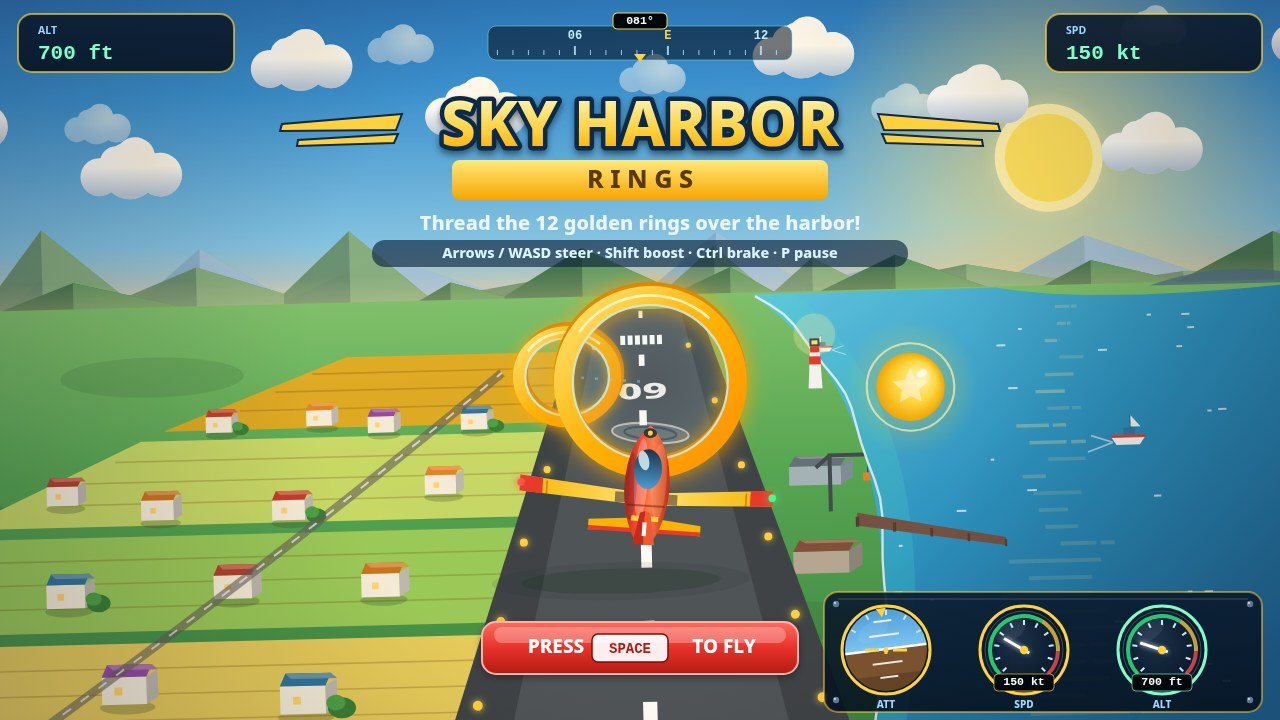
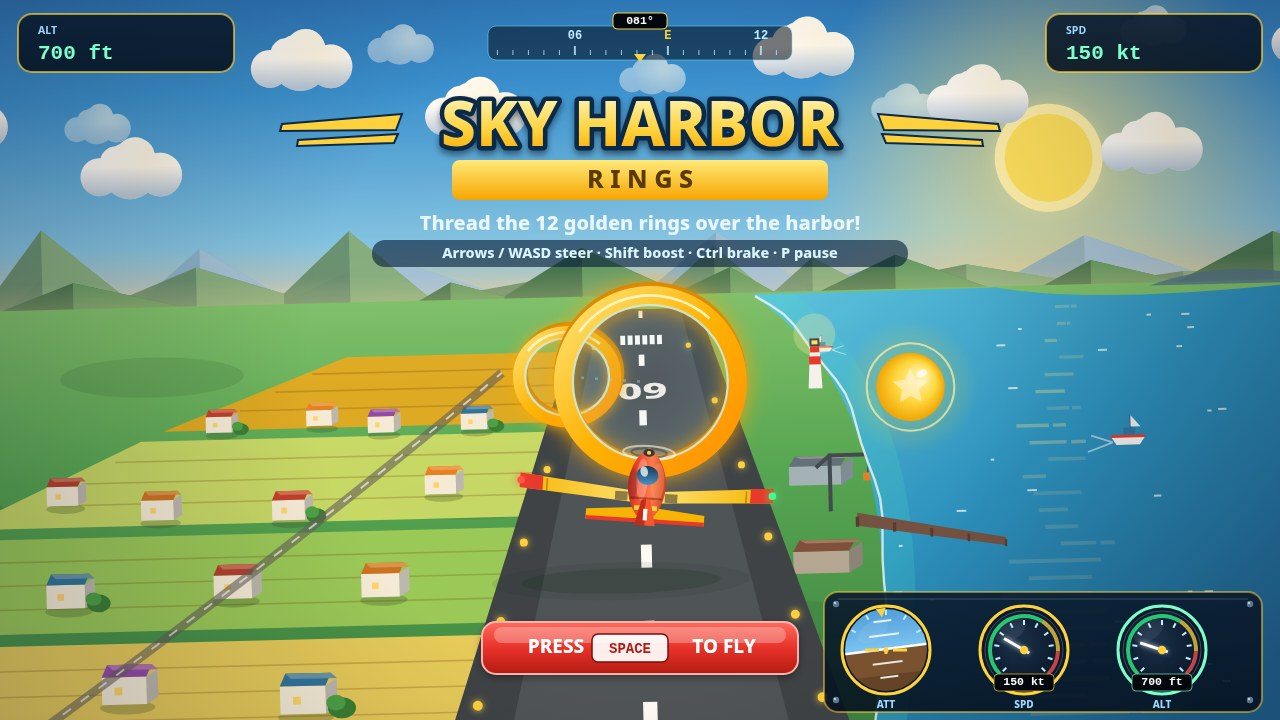
Plane: true rear chase view — foreshortened fuselage, dominant wing, cruise attitude
Redraw planeRear so the plane reads as flying away from the camera
instead of a top-down sprite standing on its tail: fuselage length
109 -> 66 units, prop disc 37 -> 25 wide at the far nose, canopy
shrunk to a small bump, main wing shifted low toward the camera end
and now the dominant shape, tailplane/fin anchoring the bottom.
Wingtip anchor for vortex trails updated to the new tip chord.
Screenshots regenerated.

Changed region(s): [[0.4062, 0.5806, 0.625, 0.7639]]

diff --git a/game/src/render.js b/game/src/render.js
@@ -103,121 +103,133 @@ export function createRenderer(canvas) {
     ctx.closePath();
   }
 
-  // ---------- the plane: rear chase view (seen from behind-above) ----------
-  // Forward is up-screen (-y): prop disc at the far nose, fuselage tapering
-  // away, canopy back, main wing as a dihedral rear section, tailplane and
-  // the vertical fin facing the camera at the near end.
+  // ---------- the plane: rear chase view ----------
+  // The camera sits close behind and slightly above, so the airframe
+  // is heavily foreshortened: the fuselage is a short taper receding
+  // to a small prop disc at the far end, the wide main wing dominates
+  // the middle, and the tailplane and fin — nearest the camera —
+  // anchor the bottom of the sprite. Forward is up-screen (-y) but
+  // the nose sits level, at cruise attitude: the plane flies away
+  // from the camera, it does not stand on its tail.
   function planeRear(x, y, bank, scale, pitch = 0) {
     ctx.save();
     ctx.translate(x + bank * 9, y);
     ctx.rotate(bank * 0.36);
     ctx.scale(scale, scale);
-    // pitch foreshortening: nose-up squashes the airframe vertically and
-    // lifts the prop disc, nose-down stretches it and drops the disc
+    // pitch foreshortening: nose-up squashes the (already short)
+    // airframe a touch more and lifts the prop disc, nose-down
+    // stretches it and drops the disc
     ctx.scale(1, 1 - pitch * 0.13);
-    const noseY = -50 - pitch * 9;
+    const noseY = -31 - pitch * 5;
 
-    // propeller: translucent blur disc at the far nose, wider than fuselage
+    // propeller: small translucent blur disc at the far nose — the
+    // far end of a foreshortened airframe, so barely wider than the
+    // fuselage and squashed nearly flat
     ctx.fillStyle = 'rgba(228,246,255,0.15)';
-    ctx.beginPath(); ctx.ellipse(0, noseY, 37, 9.5, 0, 0, 7); ctx.fill();
+    ctx.beginPath(); ctx.ellipse(0, noseY, 25, 6.5, 0, 0, 7); ctx.fill();
     ctx.strokeStyle = 'rgba(255,255,255,0.55)';
     ctx.lineWidth = 2;
-    ctx.beginPath(); ctx.ellipse(0, noseY, 37, 9.5, 0, 0, 7); ctx.stroke();
+    ctx.beginPath(); ctx.ellipse(0, noseY, 25, 6.5, 0, 0, 7); ctx.stroke();
     ctx.strokeStyle = 'rgba(25,45,75,0.45)';
-    ctx.beginPath(); ctx.ellipse(0, noseY, 25, 6, 0, 0, 7); ctx.stroke();
+    ctx.beginPath(); ctx.ellipse(0, noseY, 17, 4.2, 0, 0, 7); ctx.stroke();
 
-    // main wing: rear section with dihedral (tips rise), gold, red tips
+    // main wing: the dominant shape — a wide rear section with
+    // dihedral (tips rise), gold with red tips, sitting low on the
+    // fuselage toward the camera end
     const wg = ctx.createLinearGradient(-122, 0, 122, 0);
     wg.addColorStop(0, '#f7b500'); wg.addColorStop(0.5, '#ffe97a'); wg.addColorStop(1, '#f7b500');
     ctx.fillStyle = wg;
     ctx.beginPath();
-    ctx.moveTo(-122, -2); ctx.lineTo(-14, 7); ctx.lineTo(14, 7); ctx.lineTo(122, -2);
-    ctx.lineTo(122, 13); ctx.lineTo(14, 19); ctx.lineTo(-14, 19); ctx.lineTo(-122, 13);
+    ctx.moveTo(-122, -4); ctx.lineTo(-14, 6); ctx.lineTo(14, 6); ctx.lineTo(122, -4);
+    ctx.lineTo(122, 10); ctx.lineTo(14, 17); ctx.lineTo(-14, 17); ctx.lineTo(-122, 10);
     ctx.closePath(); ctx.fill();
     ctx.fillStyle = '#e8322a';
-    ctx.beginPath(); ctx.moveTo(-122, -2); ctx.lineTo(-100, -0.5); ctx.lineTo(-100, 14.5); ctx.lineTo(-122, 13); ctx.closePath(); ctx.fill();
-    ctx.beginPath(); ctx.moveTo(122, -2); ctx.lineTo(100, -0.5); ctx.lineTo(100, 14.5); ctx.lineTo(122, 13); ctx.closePath(); ctx.fill();
+    ctx.beginPath(); ctx.moveTo(-122, -4); ctx.lineTo(-100, -2.2); ctx.lineTo(-100, 11.3); ctx.lineTo(-122, 10); ctx.closePath(); ctx.fill();
+    ctx.beginPath(); ctx.moveTo(122, -4); ctx.lineTo(100, -2.2); ctx.lineTo(100, 11.3); ctx.lineTo(122, 10); ctx.closePath(); ctx.fill();
     // aileron hinge lines + dark walkway strips at the root
     ctx.strokeStyle = 'rgba(120,70,0,0.45)';
     ctx.lineWidth = 1.6;
-    ctx.beginPath(); ctx.moveTo(-96, 2); ctx.lineTo(-96, 15); ctx.moveTo(96, 2); ctx.lineTo(96, 15); ctx.stroke();
+    ctx.beginPath(); ctx.moveTo(-96, 0); ctx.lineTo(-96, 11.5); ctx.moveTo(96, 0); ctx.lineTo(96, 11.5); ctx.stroke();
     ctx.fillStyle = 'rgba(40,40,46,0.55)';
-    ctx.fillRect(-30, 8, 12, 10); ctx.fillRect(18, 8, 12, 10);
+    ctx.fillRect(-30, 7.5, 12, 8.5); ctx.fillRect(18, 7.5, 12, 8.5);
     // navigation lights on the wingtips
     ctx.save();
     ctx.shadowBlur = 9;
     ctx.shadowColor = '#ff3b30'; ctx.fillStyle = '#ff5147';
-    ctx.beginPath(); ctx.arc(-121, 5, 3.6, 0, 7); ctx.fill();
+    ctx.beginPath(); ctx.arc(-121, 3, 3.6, 0, 7); ctx.fill();
     ctx.shadowColor = '#2eff8a'; ctx.fillStyle = '#3dff8f';
-    ctx.beginPath(); ctx.arc(121, 5, 3.6, 0, 7); ctx.fill();
+    ctx.beginPath(); ctx.arc(121, 3, 3.6, 0, 7); ctx.fill();
     ctx.restore();
 
     // tailplane (horizontal stabiliser) at the near end
     ctx.fillStyle = '#f7b500';
     ctx.beginPath();
-    ctx.moveTo(-54, 36); ctx.lineTo(0, 31); ctx.lineTo(54, 36);
-    ctx.lineTo(54, 46); ctx.lineTo(0, 42); ctx.lineTo(-54, 46);
+    ctx.moveTo(-57, 26); ctx.lineTo(0, 21); ctx.lineTo(57, 26);
+    ctx.lineTo(57, 36); ctx.lineTo(0, 32); ctx.lineTo(-57, 36);
     ctx.closePath(); ctx.fill();
     ctx.fillStyle = '#e8322a';
-    ctx.fillRect(-54, 42, 108, 4);
+    ctx.fillRect(-57, 32.5, 114, 3.8);
 
-    // fuselage: bulges at the cabin, tapers to the nose (far) and tail (near)
+    // fuselage: short and strongly tapered — it bulges briefly at
+    // the cabin, then narrows fast toward the far nose and the near
+    // tail cone, so only a hint of its top shows from behind
     const fg = ctx.createLinearGradient(-24, 0, 24, 0);
     fg.addColorStop(0, '#a01810'); fg.addColorStop(0.32, '#f0442e');
     fg.addColorStop(0.58, '#ff7a4d'); fg.addColorStop(1, '#b31b12');
     ctx.fillStyle = fg;
     ctx.beginPath();
-    ctx.moveTo(0, -57);
-    ctx.quadraticCurveTo(15, -44, 20, -18);
-    ctx.quadraticCurveTo(24, 4, 19, 26);
-    ctx.quadraticCurveTo(15, 44, 9, 52);
-    ctx.lineTo(-9, 52);
-    ctx.quadraticCurveTo(-15, 44, -19, 26);
-    ctx.quadraticCurveTo(-24, 4, -20, -18);
-    ctx.quadraticCurveTo(-15, -44, 0, -57);
+    ctx.moveTo(0, -36);
+    ctx.quadraticCurveTo(13, -27, 17, -10);
+    ctx.quadraticCurveTo(20, 3, 16, 15);
+    ctx.quadraticCurveTo(12.5, 25, 8, 30);
+    ctx.lineTo(-8, 30);
+    ctx.quadraticCurveTo(-12.5, 25, -16, 15);
+    ctx.quadraticCurveTo(-20, 3, -17, -10);
+    ctx.quadraticCurveTo(-13, -27, 0, -36);
     ctx.closePath(); ctx.fill();
     // spine highlight + panel line + belly stripe
     ctx.fillStyle = 'rgba(255,255,255,0.28)';
-    ctx.beginPath(); ctx.ellipse(-6, -6, 6.5, 38, 0, 0, 7); ctx.fill();
+    ctx.beginPath(); ctx.ellipse(-5, -5, 5.5, 20, 0, 0, 7); ctx.fill();
     // sunlight from the upper right: warm sheen on the sun side of the
     // fuselage, cool rim shadow on the far side
     ctx.fillStyle = 'rgba(255,216,140,0.22)';
-    ctx.beginPath(); ctx.ellipse(11, -4, 7.5, 36, 0, 0, 7); ctx.fill();
+    ctx.beginPath(); ctx.ellipse(10, -3, 6.5, 18, 0, 0, 7); ctx.fill();
     ctx.fillStyle = 'rgba(30,20,70,0.20)';
-    ctx.beginPath(); ctx.ellipse(-15, 2, 5.5, 32, 0, 0, 7); ctx.fill();
+    ctx.beginPath(); ctx.ellipse(-13.5, 0, 4.5, 15, 0, 0, 7); ctx.fill();
     ctx.strokeStyle = 'rgba(90,10,5,0.45)';
     ctx.lineWidth = 2;
-    ctx.beginPath(); ctx.moveTo(-18, 20); ctx.lineTo(18, 20); ctx.stroke();
+    ctx.beginPath(); ctx.moveTo(-15.5, 13); ctx.lineTo(15.5, 13); ctx.stroke();
     ctx.fillStyle = '#ffd23d';
-    ctx.fillRect(-13, 30, 26, 5);
+    ctx.fillRect(-11, 20, 22, 4.5);
 
-    // canopy: glass back seen from behind-above
-    const cg = ctx.createLinearGradient(0, -34, 0, 2);
+    // canopy: just a small glass bump ahead of the wing — the top of
+    // the cabin glimpsed from behind, not a full top-down oval
+    const cg = ctx.createLinearGradient(0, -19, 0, 1);
     cg.addColorStop(0, '#0d2c4d'); cg.addColorStop(1, '#3f96d4');
     ctx.fillStyle = cg;
-    ctx.beginPath(); ctx.ellipse(0, -15, 13.5, 19, 0, 0, 7); ctx.fill();
+    ctx.beginPath(); ctx.ellipse(0, -9, 10.5, 9, 0, 0, 7); ctx.fill();
     ctx.fillStyle = 'rgba(215,245,255,0.85)';
-    ctx.beginPath(); ctx.ellipse(-4.5, -23, 5, 9.5, -0.3, 0, 7); ctx.fill();
+    ctx.beginPath(); ctx.ellipse(-3.5, -12.5, 3.6, 5, -0.3, 0, 7); ctx.fill();
 
     // vertical fin facing the camera at the tail: two faces split on the
     // centre line, the sun side brighter, so it reads as a solid fin
     // standing up off the fuselage rather than a flat sticker
     ctx.fillStyle = '#c22418';
     ctx.beginPath();
-    ctx.moveTo(0, 25); ctx.lineTo(-5, 27); ctx.lineTo(-10.5, 57); ctx.lineTo(0, 57);
+    ctx.moveTo(0, 13); ctx.lineTo(-4.5, 15); ctx.lineTo(-10, 39); ctx.lineTo(0, 39);
     ctx.closePath(); ctx.fill();
     ctx.fillStyle = '#f4532f';
     ctx.beginPath();
-    ctx.moveTo(0, 25); ctx.lineTo(5, 27); ctx.lineTo(10.5, 57); ctx.lineTo(0, 57);
+    ctx.moveTo(0, 13); ctx.lineTo(4.5, 15); ctx.lineTo(10, 39); ctx.lineTo(0, 39);
     ctx.closePath(); ctx.fill();
     ctx.fillStyle = '#ffffff';
-    ctx.fillRect(-2, 36, 4, 13);
+    ctx.fillRect(-2, 23, 4, 11);
 
     // spinner at the hub of the prop disc
     ctx.fillStyle = '#263238';
-    ctx.beginPath(); ctx.ellipse(0, noseY, 6.5, 4.6, 0, 0, 7); ctx.fill();
+    ctx.beginPath(); ctx.ellipse(0, noseY, 5.5, 3.8, 0, 0, 7); ctx.fill();
     ctx.fillStyle = '#ffd23d';
-    ctx.beginPath(); ctx.arc(0, noseY, 2.4, 0, 7); ctx.fill();
+    ctx.beginPath(); ctx.arc(0, noseY, 2, 0, 7); ctx.fill();
 
     ctx.restore();
   }
@@ -227,7 +239,7 @@ export function createRenderer(canvas) {
   // ribbons start exactly on the tips, banked or not.
   function wingTip(s, side) {
     const a = s.bank * 0.36, cos = Math.cos(a), sin = Math.sin(a);
-    const lx = side * 122, ly = 5;
+    const lx = side * 122, ly = 3;
     return [
       s.x + s.bank * 9 + (lx * cos - ly * sin) * 1.04,
       s.y + (lx * sin + ly * cos) * 1.04 * (1 - s.pitch * 0.13),
